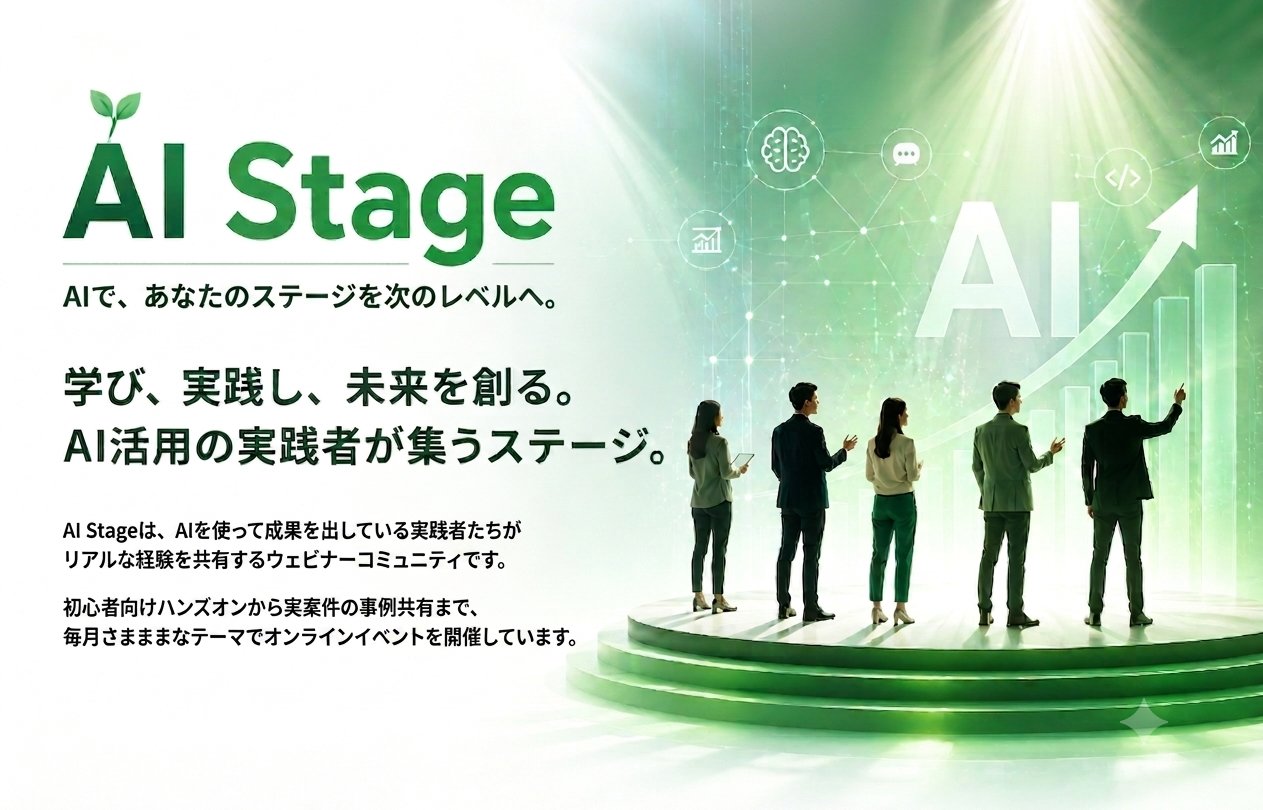
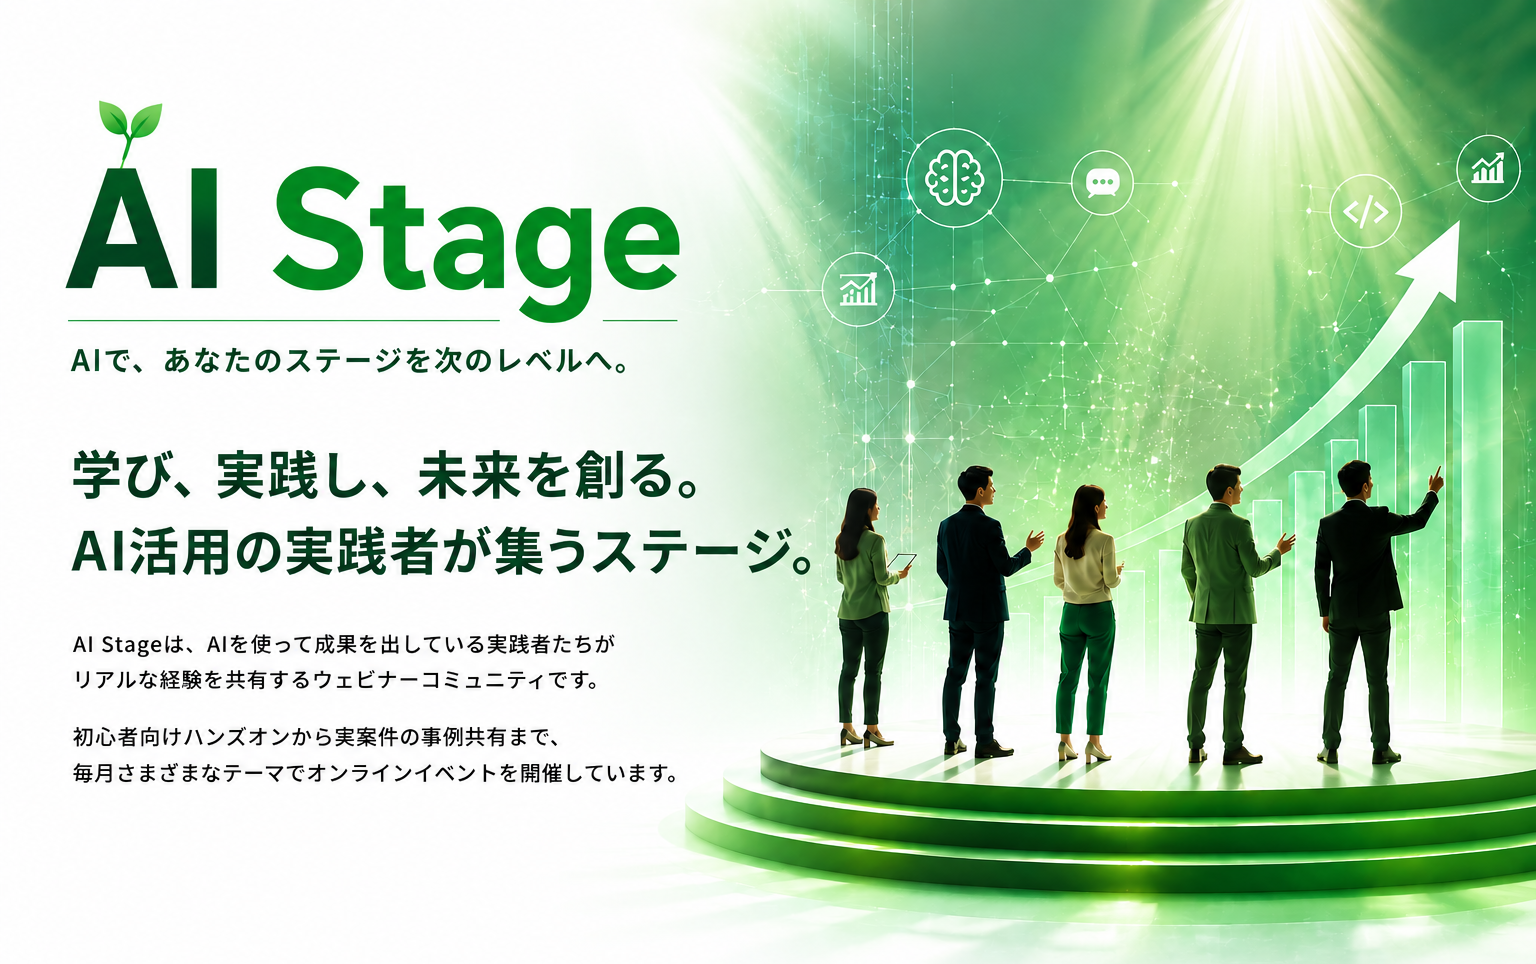
メンバー削除・フォントサイズ調整・hero-pc更新
- 新井・児玉・CCをメンバー一覧から削除
- ✓ハイライト・自己紹介文のフォントを18px→16px
- hero-pc.png を最新版に更新

diff --git a/index.html b/index.html
@@ -306,7 +306,7 @@ nav{
 .current-event-highlights{display:flex;flex-direction:column;gap:.5rem;margin-bottom:1.6rem}
 .highlight-item{
   display:flex;align-items:flex-start;gap:.6rem;
-  font-size:18px;color:var(--text2);
+  font-size:16px;color:var(--text2);
 }
 .highlight-item::before{content:'✓';color:var(--green);font-weight:700;flex-shrink:0;margin-top:.1rem}
 .current-event-cta{display:flex;flex-direction:column;gap:.8rem}
@@ -436,7 +436,7 @@ nav{
 .member-name{font-weight:800;font-size:1rem;line-height:1.2;color:#111}
 .member-handle{font-size:.78rem;color:#6b7280;margin-top:.15rem}
 .member-role-badge{margin-top:.3rem}
-.member-bio{font-size:18px;color:#374151;line-height:1.7;margin-bottom:1rem}
+.member-bio{font-size:16px;color:#374151;line-height:1.7;margin-bottom:1rem}
 .member-specialties{display:flex;flex-wrap:wrap;gap:.4rem;margin-bottom:1rem}
 .specialty-tag{
   font-size:.72rem;background:var(--accent-xl);
@@ -875,19 +875,6 @@ const MEMBERS = [
   },
   /* ── 5以降: 五十音順 ── */
   {
-    name: "新井 宗孝",
-    handle: "新井さん",
-    photo: "",
-    role: "登壇準備中",
-    roleBadge: { text: "登壇予定", type: "yellow" },
-    bio: "BPO事業会社に25年以上勤務し、IT・メーカー・金融領域を中心にオペレーション・営業部門の組織運営マネジメントを20年担ってきたジェネラリスト。「AIに仕事を奪われる側ではなく、使いこなす側になる」をモットーに活動中。",
-    specialties: ["BPO・業務プロセス", "組織マネジメント", "AI活用推進"],
-    achievements: [
-      "AI活用をテーマにウェビナー登壇準備中",
-    ],
-    links: [],
-  },
-  {
     name: "川崎 陽子",
     handle: "かわさきようこ",
     photo: "",
@@ -898,20 +885,6 @@ const MEMBERS = [
     achievements: [
       "ゴルフ業界イベント「ゴルフ×AI」登壇",
       "千葉県経営品質協議会 AI研修推進委員",
-    ],
-    links: [],
-  },
-  {
-    name: "児玉 圭司",
-    handle: "児玉さん",
-    photo: "",
-    role: "インフラ担当・登壇予定",
-    roleBadge: { text: "登壇予定", type: "yellow" },
-    bio: "建設業界勤務（主任技術者）。チームのGoogle Drive共有環境の整備などを行う。女性経営者向けAI入門＆ハンズオンイベントに単独登壇予定。",
-    specialties: ["建設業×AI", "AI入門", "インフラ整備"],
-    achievements: [
-      "コミュニティ共有Google Drive（5TB）の整備・提供",
-      "女性経営者向けAI入門＆ハンズオンイベント登壇予定",
     ],
     links: [],
   },
@@ -955,19 +928,6 @@ const MEMBERS = [
     achievements: [
       "第1回・第2回ウェビナーでチャットサポート担当",
       "ポータルサイト（本サイト）を提案・設計",
-    ],
-    links: [],
-  },
-  {
-    name: "CC",
-    handle: "CC",
-    photo: "",
-    role: "メンバー",
-    roleBadge: { text: "運営", type: "accent" },
-    bio: "第1回ウェビナー（LINEスタンプ体験会）で当日の進行サポートを担当。詳細プロフィールは準備中。",
-    specialties: [],
-    achievements: [
-      "第1回ウェビナー当日進行サポート担当",
     ],
     links: [],
   },